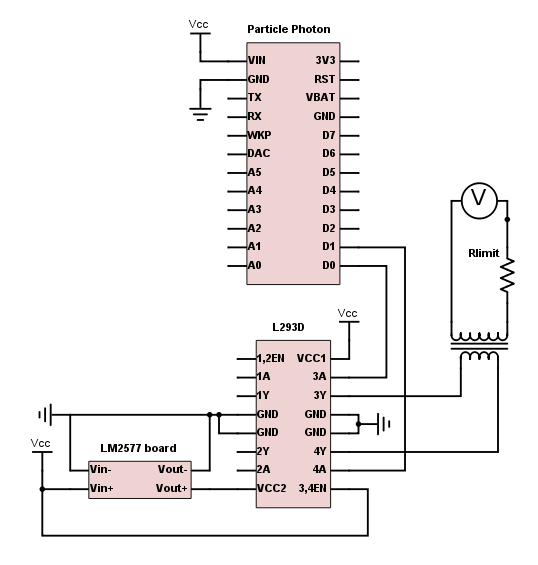
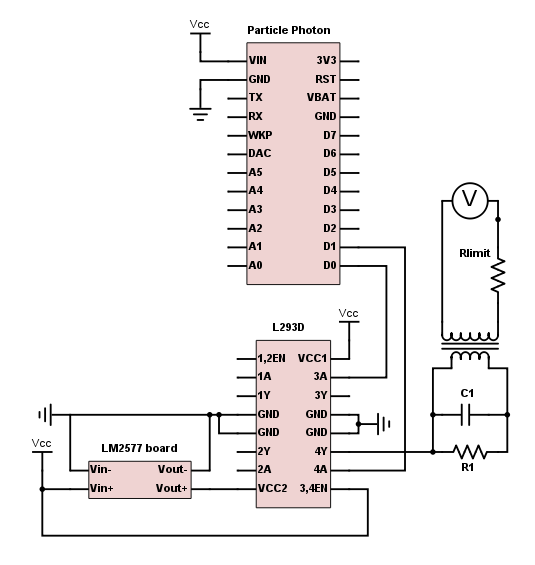
Added information about RC filter

diff --git a/Readme.md b/Readme.md
@@ -5,7 +5,8 @@ This repository chronicles my project to build a telephone ring voltage generato
 This project went through many phases, which I've documented approximately in the history of this repository.
 1. [Phase 1: Generate a simple 5V/20Hz square wave](https://github.com/jonscheiding/phone-ringer/tree/step-1)
 2. [Phase 2: Boost the 5V/20Hz square wave to 18V](https://github.com/jonscheiding/phone-ringer/tree/step-2)
-3. **Phase 3: Boost the 18V/20Hz square wave to 90V**
+3. [Phase 3: Boost the 18V/20Hz square wave to 90V](https://github.com/jonscheiding/phone-ringer/tree/step-3)
+4. **Phase 4: Make the ugly square wave into a nice sine wave**
 
 ### PARTS
 
@@ -15,17 +16,17 @@ These are the parts I used, with links.
 - L293D Quadruple Half-H Bridge (http://a.co/hMpajMe)
 - LM2577-based adjustable boost converter (http://a.co/huLOzfz)
 - Step-up transformer ([details](Transformer.md))
+- Capacitor and resistor for RC filter ([details](PWM.md))
 
 ### BUILD
 
-The code looks like [this](phone-ringer.ino).  We're using [PWM](Pwm.md) to approximate the positive half of a sine waveform on one of our h-bridge outputs, and then on the other one.  This is a little different than normal (i.e. mains) AC power, in that we don't have a "neutral" line that remains at ground potential and a "hot" that oscillates above and below.  Instead, our two lines take turns being the "hot".
+The code looks like [this](phone-ringer.ino).  We're using [PWM](PWM.md) to approximate the positive half of a sine waveform on one of our h-bridge outputs, and then on the other one.  This is a little different than normal (i.e. mains) AC power, in that we don't have a "neutral" line that remains at ground potential and a "hot" that oscillates above and below.  Instead, our two lines take turns being the "hot".
 
 The circuit looks like this:
 
 ![A/C wave generator circuit diagram](circuit-diagram.png)
 
-Vcc should all be connected together and so should GND.  Right now, we're using the Micro USB connector on the Photon to actually power the whole thing, but we'll probably want to change that eventually.  We're using an [RC filter](Pwm.md) to turn the PWM approximated sine wave into a real one.
-
+Vcc should all be connected together and so should GND.  Right now, we're using the Micro USB connector on the Photon to actually power the whole thing, but we'll probably want to change that eventually.  We're using an [RC filter](PWM.md) to turn the PWM approximated sine wave into a real one.
 
 Before building the circuit, you'll want to set the boost converter to an appropriate voltage.  An easy way to do this is to hook up the input to a couple of AA batteries, and connect a large resistor and your voltmeter to the output.  You can then turn the pot to set the voltage.  The correct voltage depends on the ratio of your step-up transformer.  For mine, I used a 1:5 transformer and set my boost converter to 18V.  See [The Step-Up Transformer](Transformer.md) for more details.
 

diff --git a/Transformer.md b/Transformer.md
@@ -2,7 +2,7 @@
 
 You might be asking, where the heck do I get a step-up transformer?  Ideally, you'd choose a transformer that is designed to operate at 20Hz, but good luck finding one.  The easiest place to get a transformer is to hack it out of a wall-wart AC/DC adapter.
 
-For my build, since I have set my boost converter to output 18V, and I want to step that up to 90V, I need a 1:5 transformer.  Since a wall AC adapter steps voltage down from 120V, a 5:1 transformer would output 24V.  If you can't find a 24V AC adapter, you can use a different ratio, and adjust the output of your boost converter appropriately.  You can calculate the appropriate value with this formula:
+For my build, since I have set my boost converter to output 18Vpeak, and I want to step that up to 90Vpeak, I need a 1:5 transformer.  Since a wall AC adapter steps voltage down from 120V, a 5:1 transformer would output 24V.  If you can't find a 24V AC adapter, you can use a different ratio, and adjust the output of your boost converter appropriately.  You can calculate the appropriate value with this formula:
 
 ![Vboostconverter = 90V * (Vacadapter / 120V)](tx-formula.png)
 
@@ -14,8 +14,4 @@ You want to desolder the transformer from the rest of the components.  You'll th
 
 ### NOTE
 
-The final output voltage of this transformer, even assuming we've done our calculations right and set the boost converter properly, will probably be a bit lower than 90V.  This is because:
-1. We are operating the transformer at a much lower frequency than it was designed for
-2. We are giving it a square wave, instead of the sine wave it was designed for
-
-Both of these factors will tend to cause transformer core saturation, which is a complex phenomenon that I'm not going to attempt to understand beyond knowing that it reduces the transformer's output in a somewhat unpredictable way.
+The final output voltage of this transformer, even assuming we've done our calculations right and set the boost converter properly, will probably be a bit lower than 90Vpeak (63Vrms).  This is because we are operating the transformer at a much lower frequency than it was designed for.  That will tend to cause transformer core saturation, which is a phenomenon that I'm not going to attempt to understand beyond knowing that it reduces the transformer's output in a somewhat unpredictable way.

diff --git a/PWM.md b/PWM.md
@@ -16,3 +16,25 @@ After editing the `config.json`, run the following:
     npm run generate
 
 The output will be some C code, defining the relevant constants, which you can paste into your firmware.  See the [code](phone-ringer.ino) for how this is used.
+
+In our case, we're not directly using the PWM output to drive the phone - instead, we are using it to switch the outputs of the h-bridge.  As long as the h-bridge can respond quickly enough, this results in a PWM output from it, at the higher voltage.
+
+### The RC filter
+
+Although the transformer may help round it off somewhat, the "naked" PWM signal will probably not do a very good job of driving the phone due to the high-frequency square wave component. We can use an RC filter to turn this into a more "pure" sine wave.
+
+An RC filter looks like this:
+
+![RC filter diagram](https://static.tiendy.com/shops/opendaq/uploads/rc_schema.png)
+
+The RC filter eliminates the higher-frequency portions of the signal, leaving (ideally) only the lower-frequency sine wave.  The values of R and C are determined by the formula
+
+ ![](http://www.ekswai.com/wp-content/uploads/highlow.gif)
+ 
+ where `f` is the cutoff frequency.  There are a lot of tradeoffs to be made here, which an electrical engineer would probably understand very well and explain in terms of complex impedance.  I will provide the following gross oversimplification:
+ 
+  * A higher `f` means a "messier" signal, to which some phones will be more sensitive than others.
+  * A higher `C` means your circuit will draw more current.
+  * A higher `R` means a lower `Vout` and thus a bigger transformer needed.
+
+You'll want to experiment in a simulator and in real life with different R and C values.  I got decent results using 100Ω and 470μF.
